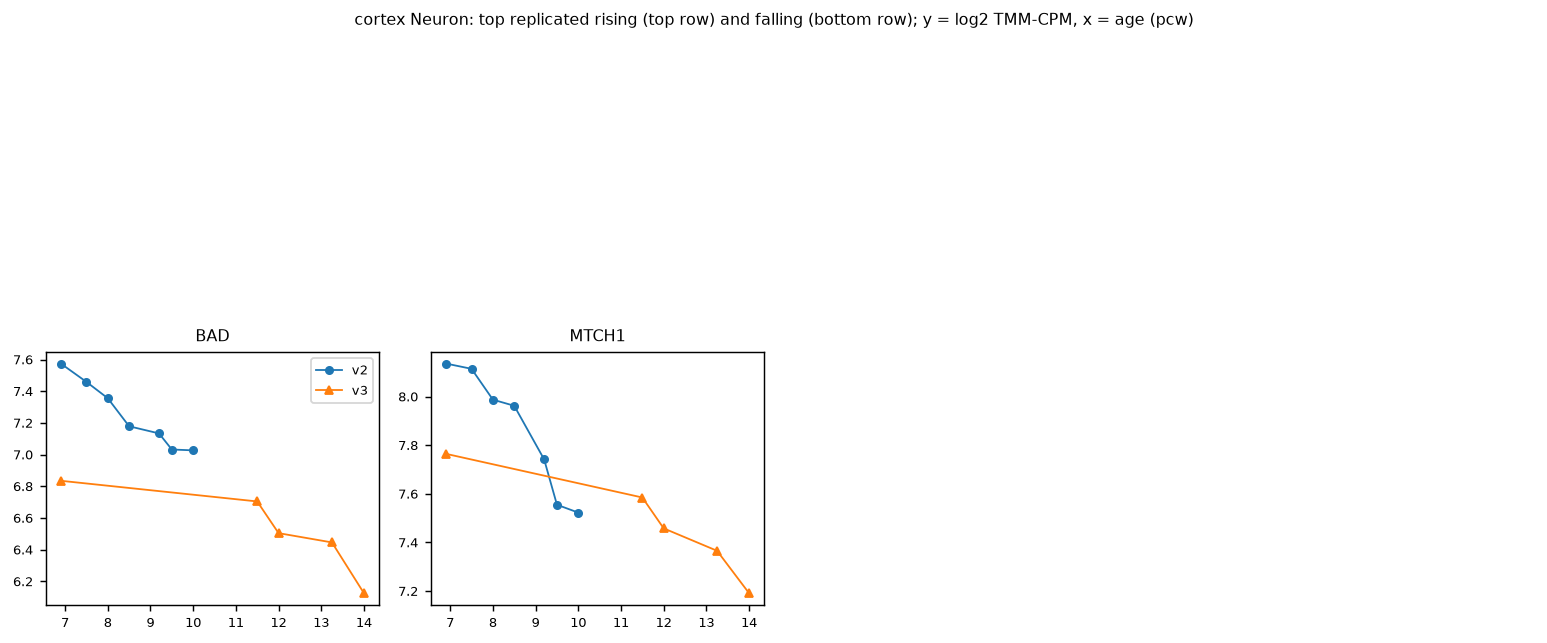
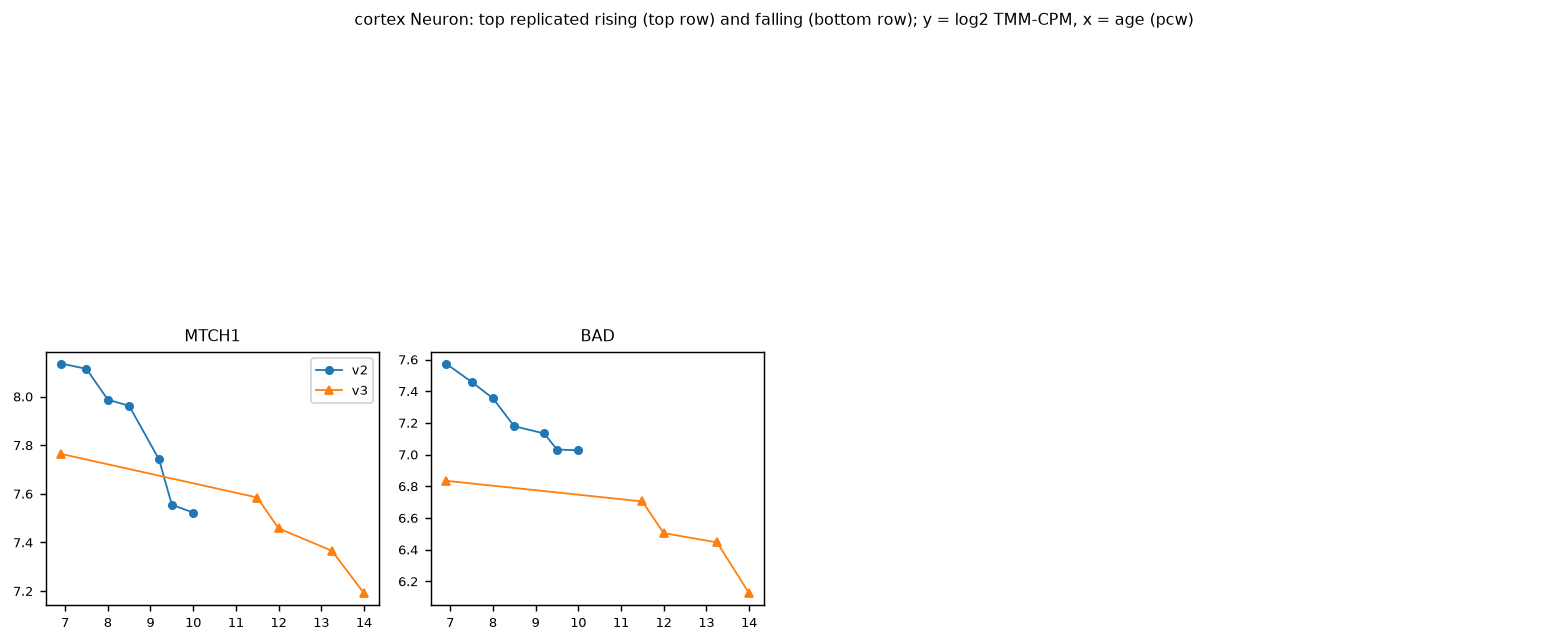
Refresh step-3 report from the full cluster exports; fix audit text and gene ranking
REPORT.md and the summaries/figures are rebuilt from the complete exports
of the latest cluster run (week-5 exclusion applied, no empty groups,
GSEA for all four strata). Results match the cluster's stage-4 output.

01: the donor sentence counted excluded donors as renamed and said script
13 does not join the renamed IDs. It now counts renamed donors among the
matched ones only, names donors left unmatched by an exclusion rule, and
reads the join status from label_overlap_donor.csv.

03: top-gene lists and figures rank by |Stouffer Z| (rounded), then
effect size, then name. Exact permutation p-values are discrete, so many
genes tie on Z and their order differed between the cluster and a laptop
at the 1e-15 level.

diff --git a/downstream_analyses/01_data_audit.py b/downstream_analyses/01_data_audit.py
@@ -99,6 +99,9 @@ def donor_map(out: C.Output) -> pd.DataFrame:
             "cells_human_dev": h["n_cells"] if h is not None else np.nan,
             "same_chemistry": h is not None and h["chemistry"] == r["chemistry"],
             "same_age": h is not None and h["age_pcw"] == r["age_pcw"],
+            # unmatched because an exclusion rule removed them from human_dev
+            "excluded_from_human_dev": h is None and C.excluded(
+                "human_dev", donor=key, age=r["age_pcw"]),
         })
     df = pd.DataFrame(rows)
     out.write(df, "donor_map_cortex_to_human_dev",
@@ -310,14 +313,28 @@ def main() -> None:
             f"({r.frac_cells_at_shared_ages:.0%} of cells). Donors nested in chemistry: "
             f"{r.donor_nested_in_chemistry}. v2 and v3 are therefore independent donor sets "
             "that can replicate each other, but not be pooled as if equivalent.")
-    matched = int((dmap.same_chemistry & dmap.human_dev_donor.ne("")).sum())
-    renamed = int((dmap.cortex_donor != dmap.human_dev_donor).sum())
-    age_mis = dmap[~dmap.same_age & dmap.human_dev_donor.ne("")]
+    has = dmap.human_dev_donor.ne("")
+    matched = int((dmap.same_chemistry & has).sum())
+    renamed = int((has & (dmap.cortex_donor != dmap.human_dev_donor)).sum())
+    excl = dmap[dmap.excluded_from_human_dev]
+    lost = dmap[~has & ~dmap.excluded_from_human_dev]
+    age_mis = dmap[~dmap.same_age & has]
+    # Does the cross-dataset join in csv_exports see the renamed donors?
+    out.used("_cross_dataset/label_overlap_donor.csv")
+    lo = C.csv("_cross_dataset", "label_overlap_donor.csv")
+    joined = int(lo["in_both"].astype(str).str.lower().eq("true").sum())
+    join_note = ("`13_cross_dataset_keys` joins them" if joined >= matched else
+                 f"`13_cross_dataset_keys` joins only {joined} -- exports predate its ID fix")
     f.append(
         f"**cortex is not an independent cohort.** {matched}/{len(dmap)} cortex donors are "
         f"human_dev donors ({renamed} under a differently written ID, e.g. "
-        "`XHU:1966:307` = `XHU:307`, which `13_cross_dataset_keys` does not join). "
-        "Agreement between the two files is reproducibility of processing, not replication."
+        f"`XHU:1966:307` = `XHU:307`; {join_note})."
+        + (f" The other {len(excl)} ({', '.join(excl.cortex_donor)}) fall under a human_dev "
+           "exclusion rule, so they have no human_dev counterpart in these exports."
+           if len(excl) else "")
+        + (f" {len(lost)} ({', '.join(lost.cortex_donor)}) have no human_dev match at all."
+           if len(lost) else "")
+        + " Agreement between the two files is reproducibility of processing, not replication."
         + (f" Age annotations disagree for {', '.join(age_mis.cortex_donor)} "
            f"({', '.join(f'{a:g} vs {b:g}' for a, b in zip(age_mis.age_cortex, age_mis.age_human_dev))} pcw)."
            if len(age_mis) else ""))

diff --git a/downstream_analyses/03_age_trends_within_cell_class.py b/downstream_analyses/03_age_trends_within_cell_class.py
@@ -111,6 +111,22 @@ def test_stratum(n: str, ds: str, chem: str, chrom, panel_of) -> pd.DataFrame:
     return df
 
 
+def strongest(g: pd.DataFrame, direction: str, n: int) -> list[str]:
+    """Top-n genes in one direction, ranked reproducibly.
+
+    Exact permutation p-values are discrete, so many genes share a Stouffer Z
+    and the order among them would otherwise depend on floating-point noise
+    (it differed between the cluster and a laptop at the 1e-15 level). Ties
+    are broken by effect size -- mean |log2 FC per week| over both
+    chemistries -- then by gene name.
+    """
+    h = g[g.direction == direction].assign(
+        _z=lambda d: d.stouffer_z.abs().round(9),
+        _eff=lambda d: (d.log2fc_per_week_v2.abs() + d.log2fc_per_week_v3.abs()) / 2)
+    return list(h.sort_values(["_z", "_eff", "gene"], ascending=[False, False, True])
+                .gene.head(n))
+
+
 def combine(per: pd.DataFrame) -> pd.DataFrame:
     """v2 x v3 per (dataset, class, gene) -> signed Stouffer, BH, tier."""
     out = []
@@ -205,9 +221,8 @@ def main() -> None:
                              f" of {int(r.not_replicated + r.get('replicated', 0) + r.get('supported', 0))} tested"
                              for _, r in c.iterrows()) + ".")
     for cls, g in rep[(rep.dataset == PRIMARY) & ~rep.sex_linked].groupby("cell_class"):
-        g = g.sort_values("stouffer_z")
-        dn = ", ".join(g[g.direction == "down"].gene.head(TOP_N))
-        up = ", ".join(g[g.direction == "up"].gene[::-1].head(TOP_N))
+        dn = ", ".join(strongest(g, "down", TOP_N))
+        up = ", ".join(strongest(g, "up", TOP_N))
         f.append(f"**{PRIMARY} {cls}** -- strongest replicated, rising: {up or 'none'}; "
                  f"falling: {dn or 'none'}.")
     drifted = counts[(counts.filter(like="median_gene_rho_").abs() > DRIFT_RHO).any(axis=1)]
@@ -295,9 +310,8 @@ def figures(out: C.Output, per: pd.DataFrame, rep: pd.DataFrame) -> None:
     if plt is None or rep.empty:
         return
     for cls, g in rep[(rep.dataset == PRIMARY) & ~rep.sex_linked].groupby("cell_class"):
-        g = g.sort_values("combined_p")
-        ups = list(g[g.direction == "up"].gene.head(4))
-        downs = list(g[g.direction == "down"].gene.head(4))
+        ups = strongest(g, "up", 4)
+        downs = strongest(g, "down", 4)
         if not ups and not downs:
             continue
         slots = ups + [None] * (4 - len(ups)) + downs + [None] * (4 - len(downs))

diff --git a/downstream_analyses/REPORT.md b/downstream_analyses/REPORT.md
@@ -1,6 +1,6 @@
 # Step 3 report: downstream analyses
 
-_Built 2026-10-04 05:56 UTC from 5 analyses over `csv_exports/`._
+_Built 2026-10-04 12:25 UTC from 5 analyses over `csv_exports/`._
 
 Read this first. Three facts about the data constrain every result below
 (details in 01):
@@ -31,14 +31,13 @@ Read this first. Three facts about the data constrain every result below
 
 - **Donor is the replicate unit, and age is nested in donor.** Every donor has exactly one age (max ages per donor = 1), and 85% of age points rest on a single donor. Donors per stratum: cortex__v2 7, cortex__v3 8, human_dev__v2 15, human_dev__v3 9. An age effect is therefore indistinguishable from a donor effect at that age.
 - **cortex: chemistries cover different ages.** v2 only: 7.5|8|8.5|9.2|9.5|10; v3 only: 5|5.5|11.5|12|13.25|14; both: 6.9 (10% of cells). Donors nested in chemistry: True. v2 and v3 are therefore independent donor sets that can replicate each other, but not be pooled as if equivalent.
-- **human_dev: chemistries cover different ages.** v2 only: 6.6|6.7|7.5|8|8.1|9.2|9.5|10; v3 only: 5|5.5|7|11.5|12|13|14; both: 6|6.9|8.5 (39% of cells). Donors nested in chemistry: True. v2 and v3 are therefore independent donor sets that can replicate each other, but not be pooled as if equivalent.
-- **cortex is not an independent cohort.** 13/15 cortex donors are human_dev donors (7 under a differently written ID, e.g. `XHU:1966:307` = `XHU:307`, which `13_cross_dataset_keys` does not join). Agreement between the two files is reproducibility of processing, not replication. Age annotations disagree for XDD:359 (13.25 vs 13 pcw).
+- **human_dev: chemistries cover different ages.** v2 only: 6.6|6.7|7.5|8|8.1|9.2|9.5|10; v3 only: 7|11.5|12|13|14; both: 6|6.9|8.5 (42% of cells). Donors nested in chemistry: True. v2 and v3 are therefore independent donor sets that can replicate each other, but not be pooled as if equivalent.
+- **cortex is not an independent cohort.** 13/15 cortex donors are human_dev donors (5 under a differently written ID, e.g. `XHU:1966:307` = `XHU:307`; `13_cross_dataset_keys` joins them). The other 2 (XDD:348, XDD:400) fall under a human_dev exclusion rule, so they have no human_dev counterpart in these exports. Agreement between the two files is reproducibility of processing, not replication. Age annotations disagree for XDD:359 (13.25 vs 13 pcw).
 - **Donor sex is recoverable from expression** (obs['sex'] is 'unknown'): 39/39 donor entries call cleanly.
 - **Sex is unevenly spread over age** in cortex__v2 (male ages 6.9|8, female ages 7.5|8.5|9.2|9.5|10; rho = -0.63, exact p = 0.19); cortex__v3 (male ages 6.9|12|14, female ages 5|5.5|6.9|11.5|13.25; rho = 0.45, exact p = 0.29). With this few donors the association is not significant, but it does not need to be to matter: a sex-differential gene can look like an age trend. Later analyses flag sex-linked genes and check trends against sex.
-- **Sex-linked genes rank among cell-class markers**, which happens when a class is drawn unevenly from male and female donors: RPS4Y1 in Radial glia (cortex__v2, rank 10); RPS4Y1 in Radial glia (human_dev__v2, rank 34); EIF1AY in Erythrocyte (human_dev__v3, rank 38). See cell_class_sex_balance.csv for the imbalance behind each.
+- **Sex-linked genes rank among cell-class markers**, which happens when a class is drawn unevenly from male and female donors: RPS4Y1 in Radial glia (cortex__v2, rank 10); RPS4Y1 in Radial glia (human_dev__v2, rank 34); EIF1AY in Erythrocyte (human_dev__v3, rank 43). See cell_class_sex_balance.csv for the imbalance behind each.
 - **Cell-class labels recover known markers**: 20/30 seed marker panels score highest in the class they name. Misses: radial_glia->Glioblast (cortex__v2), neuroblast->Neuron (cortex__v3), radial_glia->Glioblast (cortex__v3), glioblast_opc->Oligo (human_dev__v2), neuron->Placodes (human_dev__v2), oligo->Neural crest (human_dev__v2), radial_glia->Glioblast (human_dev__v2), glioblast_opc->Oligo (human_dev__v3), oligo->Neural crest (human_dev__v3), radial_glia->Glioblast (human_dev__v3). Panels naming a class absent from a stratum are not scored. The misses are neighbouring lineages: glioblasts carry radial-glia genes, placode-derived sensory neurons carry pan-neuronal genes, and the short seed lists cannot separate them.
-- **Exclusions (exclusions.csv)**: human_dev age=5.0 (File is human_dev_without_week_5 but still holds 62,786 cells at 5.0 pcw (donor XDD:348)); human_dev age=5.5 (File is human_dev_without_week_5 but still holds 59,667 cells at 5.5 pcw (donor XDD:400)). The exports still contain 122,453 of these cells (made before the rule). Step 3 drops them from every age-, donor- and sample-resolved table; tables pooled over age (cell-class pseudobulk, 10_markers, 17_gsea -- used by 04 parts C-D and 05) still include them until stages 1-3 are re-run on the cluster.
-- **These exports contain 1370 empty pseudobulk groups** (levels found only in the other chemistry, written as all-zero columns by script 09 before the fix). Every analysis here drops groups below 50 cells, which removes them.
+- **Exclusions (exclusions.csv)**: human_dev age=5.0 (File is human_dev_without_week_5 but still holds 62,786 cells at 5.0 pcw (donor XDD:348)); human_dev age=5.5 (File is human_dev_without_week_5 but still holds 59,667 cells at 5.5 pcw (donor XDD:400)). These exports already omit them.
 - **XIST reads ~6.1x higher in human_dev than in cortex for the same female donors**, so the two files probably count reads differently (XIST is largely nuclear and intronic). Compare genes across the files by rank or within-file contrast, not by absolute level.
 
 Method, limitations and output files: [results/01_data_audit/SUMMARY.md](results/01_data_audit/SUMMARY.md)
@@ -62,10 +61,10 @@ Method, limitations and output files: [results/02_composition_vs_age/SUMMARY.md]
 
 - **cortex (primary)**: replicated within-class age trends per class -- Neuroblast 61 up / 84 down of 3937 tested; Neuron 0 up / 2 down of 4558 tested; Neuronal IPC 50 up / 47 down of 4530 tested; Radial glia 179 up / 204 down of 4371 tested.
 - **human_dev (region-confounded, see limitations)**: replicated within-class age trends per class -- Erythrocyte 45 up / 31 down of 938 tested; Glioblast 76 up / 68 down of 8239 tested; Immune 72 up / 56 down of 6226 tested; Neuroblast 896 up / 674 down of 7040 tested; Neuron 891 up / 704 down of 6974 tested; Neuronal IPC 745 up / 494 down of 7705 tested; Radial glia 582 up / 532 down of 8032 tested; Vascular 183 up / 84 down of 7952 tested.
-- **cortex Neuroblast** -- strongest replicated, rising: NFIC, EIF1AX, PTPRD, MLLT3, EPHA5, USP46, RBBP4, TRIM2, SETD2, EIF4B, CALCOCO1, LINC01560, CEP170, TNRC6B, ATCAY; falling: REM2, CHST8, FBXO7, NNAT, EYA2, TMEM163, PUF60, CIAPIN1, PPA2, CREG2, CDKN1C, EBF1, KMT5C, PLPPR2, DUSP26.
-- **cortex Neuron** -- strongest replicated, rising: none; falling: BAD, MTCH1.
-- **cortex Neuronal IPC** -- strongest replicated, rising: SSX2IP, DCAF16, NFIC, FAM171B, SET, KIF18A, CCP110, AFF3, CEP350, MEGF9, CDC42BPA, HELLS, MMS22L, SUZ12, SCRN1; falling: NKAIN4, CD200, TAGLN3, DEDD2, PCBP4, PSMD4, PHLDB2, EIF4A1, BLOC1S4, NOVA2, ZBTB17, CCNJL, CCND1, DDIT4, CHN1.
-- **cortex Radial glia** -- strongest replicated, rising: SPAG9, NFIC, EIF2AK2, TSPO, KIF15, ITGA2, DESI2, UBXN2A, LYRM7, CKAP2, PPM1K, SSX2IP, FER, JAK1, LGALS1; falling: CDC23, HMGA2, FBL, CNTNAP2, HMGA1, CDK4, NCALD, NDUFS3, SNU13, MED22, CHAF1B, OGFOD1, BBS4, CENPM, PRMT1.
+- **cortex Neuroblast** -- strongest replicated, rising: NFIC, EIF1AX, MLLT3, PTPRD, EPHA5, USP46, RBBP4, TRIM2, EIF4B, CALCOCO1, SETD2, LINC01560, TNRC6B, CEP170, CCND2; falling: CHST8, REM2, FBXO7, NNAT, EYA2, TMEM163, PPA2, CIAPIN1, PUF60, CREG2, EBF1, CDKN1C, KMT5C, PLPPR2, PEPD.
+- **cortex Neuron** -- strongest replicated, rising: none; falling: MTCH1, BAD.
+- **cortex Neuronal IPC** -- strongest replicated, rising: SSX2IP, NFIC, DCAF16, FAM171B, SET, AFF3, CCP110, KIF18A, MEGF9, CEP350, CDC42BPA, SCRN1, MMS22L, HELLS, SUZ12; falling: NKAIN4, CD200, TAGLN3, DEDD2, PCBP4, PSMD4, PHLDB2, EIF4A1, BLOC1S4, NOVA2, ZBTB17, CCND1, CCNJL, DDIT4, CHN1.
+- **cortex Radial glia** -- strongest replicated, rising: NFIC, SPAG9, EIF2AK2, ITGA2, TSPO, KIF15, DESI2, UBXN2A, PPM1K, FER, SSX2IP, CKAP2, LYRM7, LGALS1, JAK1; falling: HMGA2, CDC23, FBL, CNTNAP2, HMGA1, NCALD, CDK4, OGFOD1, CHAF1B, NDUFS3, MED22, SNU13, BBS4, CENPM, PRMT1.
 - **Residual global drift after TMM** (median gene rho beyond +/-0.1) in cortex Radial glia (v2 -0.14, v3 +0.07); human_dev Erythrocyte (v2 -0.54, v3 +0.07). Trends there are partly a whole-transcriptome shift (in erythrocytes, haemoglobin taking over the transcriptome as they mature) -- prefer genes whose |rho| clearly exceeds that offset.
 - **NDD-panel genes with replicated trends in cortex**: CNTNAP2 down in Radial glia (asd_high_confidence|synaptic_and_channels); ASH1L up in Radial glia (asd_high_confidence|chromatin_transcription_regulators); CREBBP up in Neuronal IPC (asd_high_confidence|chromatin_transcription_regulators|id_dd_dominant); SLC2A1 down in Radial glia (epilepsy_dee); SLC2A1 down in Neuroblast (epilepsy_dee); CREBBP up in Neuroblast (asd_high_confidence|chromatin_transcription_regulators|id_dd_dominant); KAT6B up in Radial glia (id_dd_dominant). Full list: ndd_genes_with_age_trends.csv.
 - **cortex and human_dev agree on within-class trends** (Spearman of combined Z, shared classes): Neuroblast 0.60; Neuron 0.49; Neuronal IPC 0.62; Radial glia 0.61. Same donors, so this measures how much whole-brain pooling and processing change the answer -- not independent replication.
@@ -84,8 +83,8 @@ Method, limitations and output files: [results/03_age_trends_within_cell_class/S
 - **human_dev, supported by the combined test only**: id_dd_dominant depleted in Erythrocyte; chromatin_transcription_regulators depleted in Fibroblast; epilepsy_dee depleted in Fibroblast; chromatin_transcription_regulators depleted in Neural crest; id_dd_dominant depleted in Neural crest; chromatin_transcription_regulators depleted in Vascular (+2 more).
 - **cortex: NDD panels are not over-represented among age-trending genes** once expression level is matched (no panel x class x direction at q < 0.05; strongest epilepsy_dee down in Neuroblast: 1 vs 0.1 expected, p = 0.12).
 - **human_dev (region-confounded trends, see 03): NDD panels over-represented among replicated age trends**: id_dd_dominant up in Neuron (12 vs 3.6 expected from expression-matched genes, q = 0.014; ASXL1, FOXG1, GATAD2B, KAT6A, KAT6B, KMT2A, MED13L, PACS1, SATB2, SMARCA2, TCF4, ZEB2).
-- **GSEA (17) NDD enrichments significant in both chemistries**: cortex synaptic_and_channels in Neuron (cell_class); cortex epilepsy_dee in Neuron (cell_class); cortex id_dd_dominant in Neuron (cell_class). Across all panels: 11 of 32 enrichments significant in either chemistry hold in both.
-- **Per-gene cell-class specificity is chemistry-robust for NDD genes**: the most specific class agrees between v2 and v3 for 82% in cortex, 60% in human_dev (ndd_gene_top_class.csv).
+- **GSEA (17) NDD enrichments significant in both chemistries**: cortex synaptic_and_channels in Neuron (cell_class); cortex epilepsy_dee in Neuron (cell_class); cortex id_dd_dominant in Neuron (cell_class); human_dev synaptic_and_channels in Neuron (cell_class). Across all panels: 12 of 35 enrichments significant in either chemistry hold in both.
+- **Per-gene cell-class specificity is chemistry-robust for NDD genes**: the most specific class agrees between v2 and v3 for 82% in cortex, 66% in human_dev (ndd_gene_top_class.csv).
 
 Method, limitations and output files: [results/04_ndd_panel_landscape/SUMMARY.md](results/04_ndd_panel_landscape/SUMMARY.md)
 
@@ -94,10 +93,10 @@ Method, limitations and output files: [results/04_ndd_panel_landscape/SUMMARY.md
 **Question.** Does each cell class carry the same expression identity in v2 and v3, and in cortex and human_dev -- i.e. can class-level results be compared across strata?
 
 - **cortex__v2 vs cortex__v3** (different chemistry, independent donors): same-class r 0.96-0.97 (median 0.96) vs best other class 0.80 at most; top-100 marker Jaccard median 0.39. Closest neighbours (margin < 0.2): Glioblast (r 0.96 vs Radial glia 0.77); Radial glia (r 0.96 vs Glioblast 0.80).
-- **human_dev__v2 vs human_dev__v3** (different chemistry, independent donors): same-class r 0.88-0.98 (median 0.95) vs best other class 0.87 at most; top-100 marker Jaccard median 0.45. Closest neighbours (margin < 0.2): Neuroblast (r 0.97 vs Neuron 0.87); Neuron (r 0.98 vs Neuroblast 0.84).
+- **human_dev__v2 vs human_dev__v3** (different chemistry, independent donors): same-class r 0.82-0.98 (median 0.95) vs best other class 0.88 at most; top-100 marker Jaccard median 0.47. Closest neighbours (margin < 0.2): Neuroblast (r 0.98 vs Neuron 0.88); Neuron (r 0.98 vs Neuroblast 0.84).
 - **cortex__v2 vs human_dev__v2** (same donors, different file): same-class r 0.90-0.93 (median 0.91) vs best other class 0.79 at most; top-100 marker Jaccard median 0.14. Closest neighbours (margin < 0.2): Glioblast (r 0.90 vs Radial glia 0.79); Neuroblast (r 0.93 vs Neuron 0.79); Neuron (r 0.91 vs Neuroblast 0.72); Radial glia (r 0.93 vs Glioblast 0.77).
-- **cortex__v3 vs human_dev__v3** (same donors, different file): same-class r 0.87-0.91 (median 0.89) vs best other class 0.80 at most; top-100 marker Jaccard median 0.08. Closest neighbours (margin < 0.2): Neuroblast (r 0.91 vs Neuron 0.80); Neuron (r 0.89 vs Neuroblast 0.74).
-- **Class identity reproduces across chemistries**: a class matches itself first in 17/17 chemistry comparisons, so v2 and v3 results about the same class describe the same cell type. The smallest margins fall between adjacent lineages (radial glia / glioblast, neuroblast / neuron), as expected along a differentiation continuum. Marker lists overlap less than profiles agree, because v2's lower sensitivity reorders the tail of each list.
+- **cortex__v3 vs human_dev__v3** (same donors, different file): same-class r 0.87-0.91 (median 0.89) vs best other class 0.79 at most; top-100 marker Jaccard median 0.09. Closest neighbours (margin < 0.2): Neuroblast (r 0.91 vs Neuron 0.79); Neuron (r 0.89 vs Neuroblast 0.74).
+- **Class identity reproduces across chemistries**: a class matches itself first in 16/16 chemistry comparisons, so v2 and v3 results about the same class describe the same cell type. The smallest margins fall between adjacent lineages (radial glia / glioblast, neuroblast / neuron), as expected along a differentiation continuum. Marker lists overlap less than profiles agree, because v2's lower sensitivity reorders the tail of each list.
 - **Across files, profiles agree but marker lists do not** (median Jaccard 0.14): human_dev classes span the whole brain, so their top markers include regional genes that cortex cells never express. Compare the files by profile, not by marker list.
 
 Method, limitations and output files: [results/05_identity_reproducibility/SUMMARY.md](results/05_identity_reproducibility/SUMMARY.md)

diff --git a/downstream_analyses/results/01_data_audit/SUMMARY.md b/downstream_analyses/results/01_data_audit/SUMMARY.md
@@ -1,6 +1,6 @@
 # Data audit: what the exports can support
 
-_Generated 2026-10-04 05:56 UTC by `downstream_analyses/01_data_audit.py` from `csv_exports/`._
+_Generated 2026-10-04 12:25 UTC by `downstream_analyses/01_data_audit.py` from `csv_exports/`._
 
 ## Question
 
@@ -9,6 +9,7 @@ Before any biology: how many independent units stand behind each comparison, whi
 ## Inputs
 
 - `_cross_dataset/gene_id_map.csv`
+- `_cross_dataset/label_overlap_donor.csv`
 - `cortex/18_chemistry/age_chemistry_overlap.csv`
 - `cortex/18_chemistry/chemistry_summary.csv`
 - `cortex__v2/02_composition/counts_cell_class_by_donor.csv`
@@ -46,14 +47,13 @@ Before any biology: how many independent units stand behind each comparison, whi
 
 - **Donor is the replicate unit, and age is nested in donor.** Every donor has exactly one age (max ages per donor = 1), and 85% of age points rest on a single donor. Donors per stratum: cortex__v2 7, cortex__v3 8, human_dev__v2 15, human_dev__v3 9. An age effect is therefore indistinguishable from a donor effect at that age.
 - **cortex: chemistries cover different ages.** v2 only: 7.5|8|8.5|9.2|9.5|10; v3 only: 5|5.5|11.5|12|13.25|14; both: 6.9 (10% of cells). Donors nested in chemistry: True. v2 and v3 are therefore independent donor sets that can replicate each other, but not be pooled as if equivalent.
-- **human_dev: chemistries cover different ages.** v2 only: 6.6|6.7|7.5|8|8.1|9.2|9.5|10; v3 only: 5|5.5|7|11.5|12|13|14; both: 6|6.9|8.5 (39% of cells). Donors nested in chemistry: True. v2 and v3 are therefore independent donor sets that can replicate each other, but not be pooled as if equivalent.
-- **cortex is not an independent cohort.** 13/15 cortex donors are human_dev donors (7 under a differently written ID, e.g. `XHU:1966:307` = `XHU:307`, which `13_cross_dataset_keys` does not join). Agreement between the two files is reproducibility of processing, not replication. Age annotations disagree for XDD:359 (13.25 vs 13 pcw).
+- **human_dev: chemistries cover different ages.** v2 only: 6.6|6.7|7.5|8|8.1|9.2|9.5|10; v3 only: 7|11.5|12|13|14; both: 6|6.9|8.5 (42% of cells). Donors nested in chemistry: True. v2 and v3 are therefore independent donor sets that can replicate each other, but not be pooled as if equivalent.
+- **cortex is not an independent cohort.** 13/15 cortex donors are human_dev donors (5 under a differently written ID, e.g. `XHU:1966:307` = `XHU:307`; `13_cross_dataset_keys` joins them). The other 2 (XDD:348, XDD:400) fall under a human_dev exclusion rule, so they have no human_dev counterpart in these exports. Agreement between the two files is reproducibility of processing, not replication. Age annotations disagree for XDD:359 (13.25 vs 13 pcw).
 - **Donor sex is recoverable from expression** (obs['sex'] is 'unknown'): 39/39 donor entries call cleanly.
 - **Sex is unevenly spread over age** in cortex__v2 (male ages 6.9|8, female ages 7.5|8.5|9.2|9.5|10; rho = -0.63, exact p = 0.19); cortex__v3 (male ages 6.9|12|14, female ages 5|5.5|6.9|11.5|13.25; rho = 0.45, exact p = 0.29). With this few donors the association is not significant, but it does not need to be to matter: a sex-differential gene can look like an age trend. Later analyses flag sex-linked genes and check trends against sex.
-- **Sex-linked genes rank among cell-class markers**, which happens when a class is drawn unevenly from male and female donors: RPS4Y1 in Radial glia (cortex__v2, rank 10); RPS4Y1 in Radial glia (human_dev__v2, rank 34); EIF1AY in Erythrocyte (human_dev__v3, rank 38). See cell_class_sex_balance.csv for the imbalance behind each.
+- **Sex-linked genes rank among cell-class markers**, which happens when a class is drawn unevenly from male and female donors: RPS4Y1 in Radial glia (cortex__v2, rank 10); RPS4Y1 in Radial glia (human_dev__v2, rank 34); EIF1AY in Erythrocyte (human_dev__v3, rank 43). See cell_class_sex_balance.csv for the imbalance behind each.
 - **Cell-class labels recover known markers**: 20/30 seed marker panels score highest in the class they name. Misses: radial_glia->Glioblast (cortex__v2), neuroblast->Neuron (cortex__v3), radial_glia->Glioblast (cortex__v3), glioblast_opc->Oligo (human_dev__v2), neuron->Placodes (human_dev__v2), oligo->Neural crest (human_dev__v2), radial_glia->Glioblast (human_dev__v2), glioblast_opc->Oligo (human_dev__v3), oligo->Neural crest (human_dev__v3), radial_glia->Glioblast (human_dev__v3). Panels naming a class absent from a stratum are not scored. The misses are neighbouring lineages: glioblasts carry radial-glia genes, placode-derived sensory neurons carry pan-neuronal genes, and the short seed lists cannot separate them.
-- **Exclusions (exclusions.csv)**: human_dev age=5.0 (File is human_dev_without_week_5 but still holds 62,786 cells at 5.0 pcw (donor XDD:348)); human_dev age=5.5 (File is human_dev_without_week_5 but still holds 59,667 cells at 5.5 pcw (donor XDD:400)). The exports still contain 122,453 of these cells (made before the rule). Step 3 drops them from every age-, donor- and sample-resolved table; tables pooled over age (cell-class pseudobulk, 10_markers, 17_gsea -- used by 04 parts C-D and 05) still include them until stages 1-3 are re-run on the cluster.
-- **These exports contain 1370 empty pseudobulk groups** (levels found only in the other chemistry, written as all-zero columns by script 09 before the fix). Every analysis here drops groups below 50 cells, which removes them.
+- **Exclusions (exclusions.csv)**: human_dev age=5.0 (File is human_dev_without_week_5 but still holds 62,786 cells at 5.0 pcw (donor XDD:348)); human_dev age=5.5 (File is human_dev_without_week_5 but still holds 59,667 cells at 5.5 pcw (donor XDD:400)). These exports already omit them.
 - **XIST reads ~6.1x higher in human_dev than in cortex for the same female donors**, so the two files probably count reads differently (XIST is largely nuclear and intronic). Compare genes across the files by rank or within-file contrast, not by absolute level.
 
 ## Limitations

diff --git a/downstream_analyses/results/03_age_trends_within_cell_class/SUMMARY.md b/downstream_analyses/results/03_age_trends_within_cell_class/SUMMARY.md
@@ -1,6 +1,6 @@
 # Within-cell-class gene expression across age
 
-_Generated 2026-10-04 05:56 UTC by `downstream_analyses/03_age_trends_within_cell_class.py` from `csv_exports/`._
+_Generated 2026-10-04 12:25 UTC by `downstream_analyses/03_age_trends_within_cell_class.py` from `csv_exports/`._
 
 ## Question
 
@@ -38,10 +38,10 @@ Holding cell identity fixed, which genes rise or fall across development, consis
 
 - **cortex (primary)**: replicated within-class age trends per class -- Neuroblast 61 up / 84 down of 3937 tested; Neuron 0 up / 2 down of 4558 tested; Neuronal IPC 50 up / 47 down of 4530 tested; Radial glia 179 up / 204 down of 4371 tested.
 - **human_dev (region-confounded, see limitations)**: replicated within-class age trends per class -- Erythrocyte 45 up / 31 down of 938 tested; Glioblast 76 up / 68 down of 8239 tested; Immune 72 up / 56 down of 6226 tested; Neuroblast 896 up / 674 down of 7040 tested; Neuron 891 up / 704 down of 6974 tested; Neuronal IPC 745 up / 494 down of 7705 tested; Radial glia 582 up / 532 down of 8032 tested; Vascular 183 up / 84 down of 7952 tested.
-- **cortex Neuroblast** -- strongest replicated, rising: NFIC, EIF1AX, PTPRD, MLLT3, EPHA5, USP46, RBBP4, TRIM2, SETD2, EIF4B, CALCOCO1, LINC01560, CEP170, TNRC6B, ATCAY; falling: REM2, CHST8, FBXO7, NNAT, EYA2, TMEM163, PUF60, CIAPIN1, PPA2, CREG2, CDKN1C, EBF1, KMT5C, PLPPR2, DUSP26.
-- **cortex Neuron** -- strongest replicated, rising: none; falling: BAD, MTCH1.
-- **cortex Neuronal IPC** -- strongest replicated, rising: SSX2IP, DCAF16, NFIC, FAM171B, SET, KIF18A, CCP110, AFF3, CEP350, MEGF9, CDC42BPA, HELLS, MMS22L, SUZ12, SCRN1; falling: NKAIN4, CD200, TAGLN3, DEDD2, PCBP4, PSMD4, PHLDB2, EIF4A1, BLOC1S4, NOVA2, ZBTB17, CCNJL, CCND1, DDIT4, CHN1.
-- **cortex Radial glia** -- strongest replicated, rising: SPAG9, NFIC, EIF2AK2, TSPO, KIF15, ITGA2, DESI2, UBXN2A, LYRM7, CKAP2, PPM1K, SSX2IP, FER, JAK1, LGALS1; falling: CDC23, HMGA2, FBL, CNTNAP2, HMGA1, CDK4, NCALD, NDUFS3, SNU13, MED22, CHAF1B, OGFOD1, BBS4, CENPM, PRMT1.
+- **cortex Neuroblast** -- strongest replicated, rising: NFIC, EIF1AX, MLLT3, PTPRD, EPHA5, USP46, RBBP4, TRIM2, EIF4B, CALCOCO1, SETD2, LINC01560, TNRC6B, CEP170, CCND2; falling: CHST8, REM2, FBXO7, NNAT, EYA2, TMEM163, PPA2, CIAPIN1, PUF60, CREG2, EBF1, CDKN1C, KMT5C, PLPPR2, PEPD.
+- **cortex Neuron** -- strongest replicated, rising: none; falling: MTCH1, BAD.
+- **cortex Neuronal IPC** -- strongest replicated, rising: SSX2IP, NFIC, DCAF16, FAM171B, SET, AFF3, CCP110, KIF18A, MEGF9, CEP350, CDC42BPA, SCRN1, MMS22L, HELLS, SUZ12; falling: NKAIN4, CD200, TAGLN3, DEDD2, PCBP4, PSMD4, PHLDB2, EIF4A1, BLOC1S4, NOVA2, ZBTB17, CCND1, CCNJL, DDIT4, CHN1.
+- **cortex Radial glia** -- strongest replicated, rising: NFIC, SPAG9, EIF2AK2, ITGA2, TSPO, KIF15, DESI2, UBXN2A, PPM1K, FER, SSX2IP, CKAP2, LYRM7, LGALS1, JAK1; falling: HMGA2, CDC23, FBL, CNTNAP2, HMGA1, NCALD, CDK4, OGFOD1, CHAF1B, NDUFS3, MED22, SNU13, BBS4, CENPM, PRMT1.
 - **Residual global drift after TMM** (median gene rho beyond +/-0.1) in cortex Radial glia (v2 -0.14, v3 +0.07); human_dev Erythrocyte (v2 -0.54, v3 +0.07). Trends there are partly a whole-transcriptome shift (in erythrocytes, haemoglobin taking over the transcriptome as they mature) -- prefer genes whose |rho| clearly exceeds that offset.
 - **NDD-panel genes with replicated trends in cortex**: CNTNAP2 down in Radial glia (asd_high_confidence|synaptic_and_channels); ASH1L up in Radial glia (asd_high_confidence|chromatin_transcription_regulators); CREBBP up in Neuronal IPC (asd_high_confidence|chromatin_transcription_regulators|id_dd_dominant); SLC2A1 down in Radial glia (epilepsy_dee); SLC2A1 down in Neuroblast (epilepsy_dee); CREBBP up in Neuroblast (asd_high_confidence|chromatin_transcription_regulators|id_dd_dominant); KAT6B up in Radial glia (id_dd_dominant). Full list: ndd_genes_with_age_trends.csv.
 - **cortex and human_dev agree on within-class trends** (Spearman of combined Z, shared classes): Neuroblast 0.60; Neuron 0.49; Neuronal IPC 0.62; Radial glia 0.61. Same donors, so this measures how much whole-brain pooling and processing change the answer -- not independent replication.

diff --git a/downstream_analyses/results/05_identity_reproducibility/SUMMARY.md b/downstream_analyses/results/05_identity_reproducibility/SUMMARY.md
@@ -1,6 +1,6 @@
 # Cell-class identity across chemistries and files
 
-_Generated 2026-10-04 05:56 UTC by `downstream_analyses/05_identity_reproducibility.py` from `csv_exports/`._
+_Generated 2026-10-04 12:25 UTC by `downstream_analyses/05_identity_reproducibility.py` from `csv_exports/`._
 
 ## Question
 
@@ -26,10 +26,10 @@ Does each cell class carry the same expression identity in v2 and v3, and in cor
 ## Key findings
 
 - **cortex__v2 vs cortex__v3** (different chemistry, independent donors): same-class r 0.96-0.97 (median 0.96) vs best other class 0.80 at most; top-100 marker Jaccard median 0.39. Closest neighbours (margin < 0.2): Glioblast (r 0.96 vs Radial glia 0.77); Radial glia (r 0.96 vs Glioblast 0.80).
-- **human_dev__v2 vs human_dev__v3** (different chemistry, independent donors): same-class r 0.88-0.98 (median 0.95) vs best other class 0.87 at most; top-100 marker Jaccard median 0.45. Closest neighbours (margin < 0.2): Neuroblast (r 0.97 vs Neuron 0.87); Neuron (r 0.98 vs Neuroblast 0.84).
+- **human_dev__v2 vs human_dev__v3** (different chemistry, independent donors): same-class r 0.82-0.98 (median 0.95) vs best other class 0.88 at most; top-100 marker Jaccard median 0.47. Closest neighbours (margin < 0.2): Neuroblast (r 0.98 vs Neuron 0.88); Neuron (r 0.98 vs Neuroblast 0.84).
 - **cortex__v2 vs human_dev__v2** (same donors, different file): same-class r 0.90-0.93 (median 0.91) vs best other class 0.79 at most; top-100 marker Jaccard median 0.14. Closest neighbours (margin < 0.2): Glioblast (r 0.90 vs Radial glia 0.79); Neuroblast (r 0.93 vs Neuron 0.79); Neuron (r 0.91 vs Neuroblast 0.72); Radial glia (r 0.93 vs Glioblast 0.77).
-- **cortex__v3 vs human_dev__v3** (same donors, different file): same-class r 0.87-0.91 (median 0.89) vs best other class 0.80 at most; top-100 marker Jaccard median 0.08. Closest neighbours (margin < 0.2): Neuroblast (r 0.91 vs Neuron 0.80); Neuron (r 0.89 vs Neuroblast 0.74).
-- **Class identity reproduces across chemistries**: a class matches itself first in 17/17 chemistry comparisons, so v2 and v3 results about the same class describe the same cell type. The smallest margins fall between adjacent lineages (radial glia / glioblast, neuroblast / neuron), as expected along a differentiation continuum. Marker lists overlap less than profiles agree, because v2's lower sensitivity reorders the tail of each list.
+- **cortex__v3 vs human_dev__v3** (same donors, different file): same-class r 0.87-0.91 (median 0.89) vs best other class 0.79 at most; top-100 marker Jaccard median 0.09. Closest neighbours (margin < 0.2): Neuroblast (r 0.91 vs Neuron 0.79); Neuron (r 0.89 vs Neuroblast 0.74).
+- **Class identity reproduces across chemistries**: a class matches itself first in 16/16 chemistry comparisons, so v2 and v3 results about the same class describe the same cell type. The smallest margins fall between adjacent lineages (radial glia / glioblast, neuroblast / neuron), as expected along a differentiation continuum. Marker lists overlap less than profiles agree, because v2's lower sensitivity reorders the tail of each list.
 - **Across files, profiles agree but marker lists do not** (median Jaccard 0.14): human_dev classes span the whole brain, so their top markers include regional genes that cortex cells never express. Compare the files by profile, not by marker list.
 
 ## Limitations

diff --git a/downstream_analyses/results/04_ndd_panel_landscape/SUMMARY.md b/downstream_analyses/results/04_ndd_panel_landscape/SUMMARY.md
@@ -1,6 +1,6 @@
 # NDD gene panels across cell classes and age
 
-_Generated 2026-10-04 05:56 UTC by `downstream_analyses/04_ndd_panel_landscape.py` from `csv_exports/`._
+_Generated 2026-10-04 12:25 UTC by `downstream_analyses/04_ndd_panel_landscape.py` from `csv_exports/`._
 
 ## Question
 
@@ -43,8 +43,8 @@ Which cell classes preferentially express each neurodevelopmental-disorder panel
 - **human_dev, supported by the combined test only**: id_dd_dominant depleted in Erythrocyte; chromatin_transcription_regulators depleted in Fibroblast; epilepsy_dee depleted in Fibroblast; chromatin_transcription_regulators depleted in Neural crest; id_dd_dominant depleted in Neural crest; chromatin_transcription_regulators depleted in Vascular (+2 more).
 - **cortex: NDD panels are not over-represented among age-trending genes** once expression level is matched (no panel x class x direction at q < 0.05; strongest epilepsy_dee down in Neuroblast: 1 vs 0.1 expected, p = 0.12).
 - **human_dev (region-confounded trends, see 03): NDD panels over-represented among replicated age trends**: id_dd_dominant up in Neuron (12 vs 3.6 expected from expression-matched genes, q = 0.014; ASXL1, FOXG1, GATAD2B, KAT6A, KAT6B, KMT2A, MED13L, PACS1, SATB2, SMARCA2, TCF4, ZEB2).
-- **GSEA (17) NDD enrichments significant in both chemistries**: cortex synaptic_and_channels in Neuron (cell_class); cortex epilepsy_dee in Neuron (cell_class); cortex id_dd_dominant in Neuron (cell_class). Across all panels: 11 of 32 enrichments significant in either chemistry hold in both.
-- **Per-gene cell-class specificity is chemistry-robust for NDD genes**: the most specific class agrees between v2 and v3 for 82% in cortex, 60% in human_dev (ndd_gene_top_class.csv).
+- **GSEA (17) NDD enrichments significant in both chemistries**: cortex synaptic_and_channels in Neuron (cell_class); cortex epilepsy_dee in Neuron (cell_class); cortex id_dd_dominant in Neuron (cell_class); human_dev synaptic_and_channels in Neuron (cell_class). Across all panels: 12 of 35 enrichments significant in either chemistry hold in both.
+- **Per-gene cell-class specificity is chemistry-robust for NDD genes**: the most specific class agrees between v2 and v3 for 82% in cortex, 66% in human_dev (ndd_gene_top_class.csv).
 
 ## Limitations
 

diff --git a/downstream_analyses/results/02_composition_vs_age/SUMMARY.md b/downstream_analyses/results/02_composition_vs_age/SUMMARY.md
@@ -1,6 +1,6 @@
 # Cell-class composition across age
 
-_Generated 2026-10-04 05:56 UTC by `downstream_analyses/02_composition_vs_age.py` from `csv_exports/`._
+_Generated 2026-10-04 12:25 UTC by `downstream_analyses/02_composition_vs_age.py` from `csv_exports/`._
 
 ## Question
 
